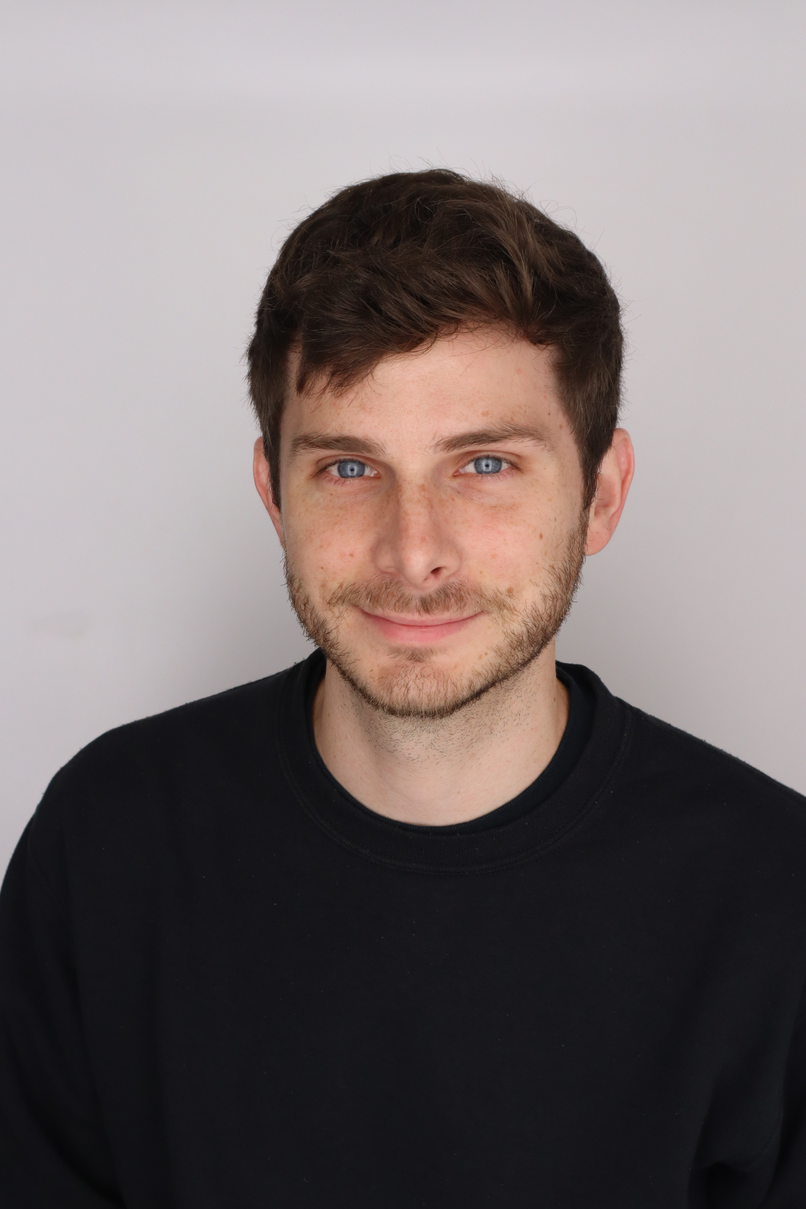
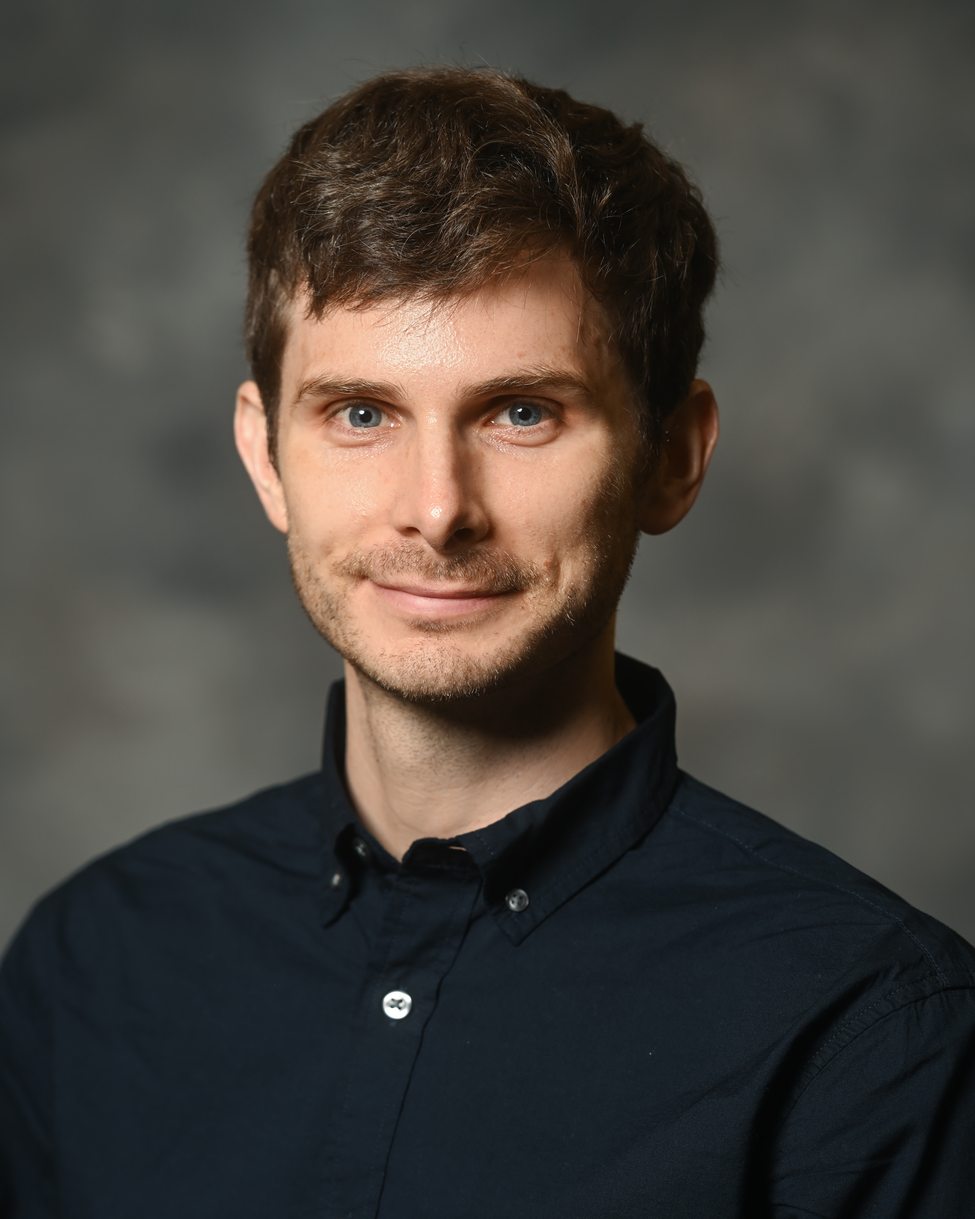
Built site for gh-pages

diff --git a/index.html b/index.html
@@ -319,10 +319,11 @@ ul.task-list li input[type="checkbox"] {
   </div>
   <div class="about-contents"><main class="content column-page" id="quarto-document-content">
 
-<section id="hello" class="level1">
-<h1>Hello!</h1>
+<section id="welcome" class="level1">
+<h1>Welcome!</h1>
 <p>I am an assistant professor in the <a href="https://www.usm.edu/graduate-programs/educational-research.php" target="_blank">Research, Evaluation, Statistics and Assessment (RESA)</a> program at <a href="https://www.usm.edu" target="_blank">The University of Southern Mississippi</a>. I received a Ph.D.&nbsp;in education policy from the <a href="https://www.gse.upenn.edu" target="_blank">University of Pennsylvania Graduate School of Education</a> with a dual M.A.&nbsp;in statistics from the <a href="https://www.wharton.upenn.edu" target="_blank">Wharton School</a> in 2026.</p>
-<p>I primarily research K-12 education funding and other policies that affect resource distribution. I use quantitative research methods with a focus on causal inference through experimental and quasi-experimental design.</p>
+<p>I was an <a href="https://www.gse.upenn.edu/student-life/enhancing-your-journey/research-opportunities/institute-education-sciences-predoctoral-training-program">Institute of Education Sciences Predoctoral Fellow</a> during my studies, obtaining a Certificate of Advanced Studies in Education Sciences. I also received the <a href="https://www.aera.net/Newsroom/AERA-Highlights-E-newsletter/AERA-Highlights-March-2026/AERANSF-Grants-Program-Announces-New-Award-Recipients">American Educational Research Association–National Science Foundation Dissertation Award</a> for my dissertation on federal, state and local education finance policies.</p>
+<p>I primarily research K-12 education funding and other policies that affect resource allocation. I aim to identify the causal impacts of policies on students, families and school systems using rigorous quantitative experimental and quasi-experimental designs. I recently led the quantitative analyses for a <a href="https://www.pnas.org/doi/10.1073/pnas.2506130122" target="_blank">national randomized impact evaluation of public Montessori preschool</a>, published in the Proceedings of the National Academy of Sciences (PNAS).</p>
 
 
 </section>
